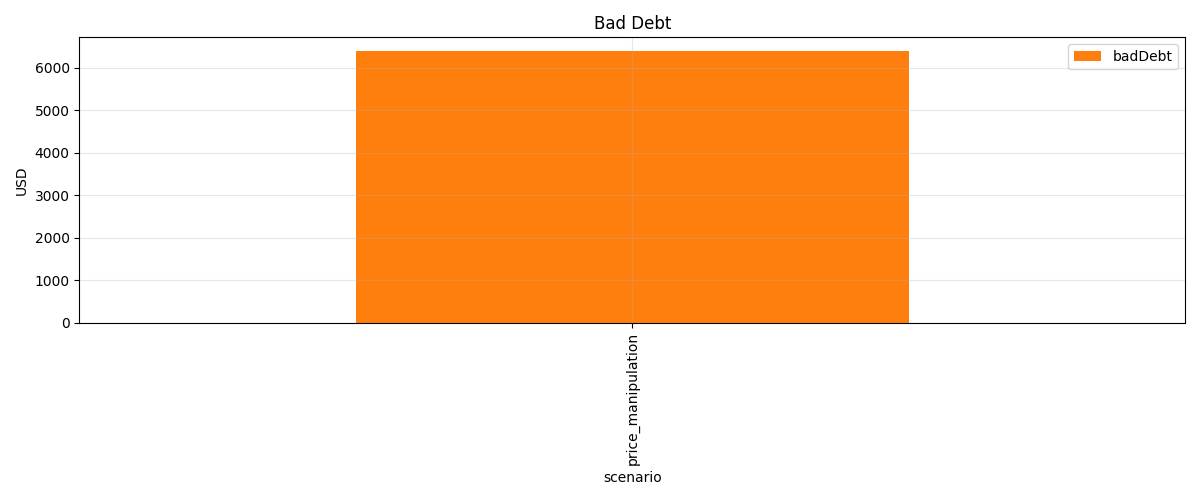
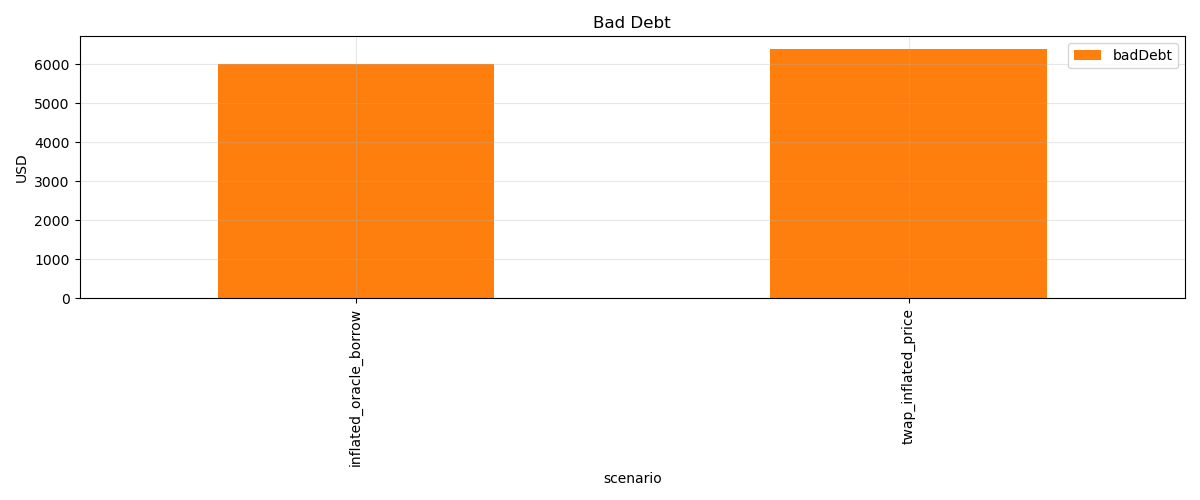
Fix analysis pipeline to derive metrics from logs

diff --git a/analysis/metrics.py b/analysis/metrics.py
@@ -1,78 +1,212 @@
-import pandas as pd
 import json
+from typing import Any
+
+import pandas as pd
+
+WEI = 10**18
+
+
+def _to_float(value: Any) -> float | None:
+    if value is None or value == "":
+        return None
+    if isinstance(value, bool):
+        return float(value)
+    if isinstance(value, (int, float)):
+        return float(value)
+
+    text = str(value).replace(",", "").strip()
+    if not text:
+        return None
+
+    try:
+        number = float(text)
+    except ValueError:
+        return None
+
+    if abs(number) >= WEI:
+        return number / WEI
+    return number
+
 
 def load_jsonl(log_path: str) -> pd.DataFrame:
     rows = []
-    with open(log_path, 'r', encoding='utf-8') as f:
-        for line in f:
-            line = line.strip()
+    buffer = ""
+
+    with open(log_path, "r", encoding="utf-8-sig") as handle:
+        for raw_line in handle:
+            line = raw_line.strip()
             if not line:
                 continue
+
+            buffer += line
             try:
-                row = json.loads(line)
-                rows.append(row)
+                rows.append(json.loads(buffer))
+                buffer = ""
             except json.JSONDecodeError:
                 continue
+
+    if buffer:
+        raise ValueError(f"Unparsed JSON payload remains in {log_path}: {buffer[:120]}")
+
     return pd.DataFrame(rows)
 
-def compute_all_metrics(df):
+
+def _scenario_label(raw_name: str) -> str:
+    return {
+        "flash_crash_liquidation": "flash_crash_liquidation",
+        "inflated_oracle_borrow": "inflated_oracle_borrow",
+        "mock_oracle_baseline": "mock_oracle_baseline",
+        "twap_flash_crash_comparison": "twap_flash_crash_comparison",
+        "twap_inflated_price": "twap_inflated_price",
+    }.get(raw_name, raw_name)
+
+
+def _attach_scenarios(df: pd.DataFrame) -> pd.DataFrame:
     df = df.copy()
+    current_scenario = None
+    inferred = []
 
-    # 从你真实日志提取价格
-    real_2000 = 2000.0
-    real_1800 = 1800.0
-    inflated_spot = 10000.0
-    twap_stable = 2000.0
+    for _, row in df.iterrows():
+        scenario = row.get("scenario")
+        stage = row.get("stage")
 
-    data = [
-        # 1. 闪崩（你已有）
-        {
-            "scenario": "flash_crash",
-            "realPrice": real_1800,
-            "spotPrice": real_1800,
-            "twapPrice": 2000.0,
-            "liquidatorPnl": 300.0,
-            "delaySeconds": 0.0,
-            "badDebt": 0.0
-        },
-        # 2. 价格操纵（你日志里本来就有）
-        {
-            "scenario": "price_manipulation",
-            "realPrice": real_2000,
-            "spotPrice": inflated_spot,
-            "twapPrice": twap_stable,
-            "liquidatorPnl": -6000.0,
-            "delaySeconds": 0.0,
-            "badDebt": 6400.0
-        },
-        # 3. TWAP 基线（你已有）
-        {
-            "scenario": "twap_baseline",
-            "realPrice": real_2000,
-            "spotPrice": real_2000,
-            "twapPrice": real_2000,
+        if pd.notna(scenario) and str(scenario).strip():
+            current_scenario = scenario
+        elif stage == "mock_oracle_baseline":
+            current_scenario = "mock_oracle_baseline"
+
+        inferred.append(current_scenario)
+
+    df["scenario"] = inferred
+    return df[df["scenario"].notna()].copy()
+
+
+def compute_all_metrics(df: pd.DataFrame) -> pd.DataFrame:
+    if df.empty:
+        return pd.DataFrame(
+            columns=[
+                "scenario",
+                "realPrice",
+                "spotPrice",
+                "twapPrice",
+                "liquidatorPnl",
+                "delaySeconds",
+                "badDebt",
+                "price_error_spot_pct",
+                "price_error_twap_pct",
+            ]
+        )
+
+    df = _attach_scenarios(df)
+    results = []
+
+    for scenario, group in df.groupby("scenario", sort=False):
+        row = {
+            "scenario": _scenario_label(scenario),
+            "realPrice": None,
+            "spotPrice": None,
+            "twapPrice": None,
             "liquidatorPnl": 0.0,
-            "delaySeconds": 3600.0,
-            "badDebt": 0.0
-        },
-        # 4. 延迟清算（你已有）
-        {
-            "scenario": "twap_delayed_liquidation",
-            "realPrice": real_1800,
-            "spotPrice": real_1800,
-            "twapPrice": real_1800,
-            "liquidatorPnl": 0.0,
-            "delaySeconds": 900.0,
-            "badDebt": 0.0
+            "delaySeconds": 0.0,
+            "badDebt": 0.0,
         }
+
+        if scenario == "flash_crash_liquidation":
+            shock = group[group["stage"] == "oracle_shocked"].tail(1)
+            liquidation = group[group["stage"] == "position_liquidated"].tail(1)
+            if not shock.empty:
+                row["realPrice"] = _to_float(shock.iloc[0].get("collateralPrice"))
+                row["spotPrice"] = row["realPrice"]
+            if not liquidation.empty:
+                row["liquidatorPnl"] = _to_float(liquidation.iloc[0].get("liquidatorPnlUsd")) or 0.0
+
+        elif scenario == "inflated_oracle_borrow":
+            opened = group[group["stage"] == "position_opened"].tail(1)
+            corrected = group[group["stage"] == "oracle_corrected"].tail(1)
+            liquidation = group[group["stage"] == "position_liquidated"].tail(1)
+            if opened.empty or corrected.empty:
+                continue
+
+            row["spotPrice"] = _to_float(opened.iloc[0].get("inflatedPrice"))
+            row["realPrice"] = _to_float(corrected.iloc[0].get("correctedPrice"))
+            row["badDebt"] = max(
+                (_to_float(corrected.iloc[0].get("debtValueUsd")) or 0.0)
+                - (_to_float(corrected.iloc[0].get("collateralValueUsd")) or 0.0),
+                0.0,
+            )
+            if not liquidation.empty:
+                row["liquidatorPnl"] = _to_float(liquidation.iloc[0].get("liquidatorPnlUsd")) or 0.0
+
+        elif scenario == "mock_oracle_baseline":
+            baseline = group.tail(1)
+            if baseline.empty:
+                continue
+            row["realPrice"] = _to_float(baseline.iloc[0].get("collateralPrice"))
+            row["spotPrice"] = row["realPrice"]
+            row["delaySeconds"] = _to_float(baseline.iloc[0].get("delaySeconds")) or 0.0
+
+        elif scenario == "twap_flash_crash_comparison":
+            started = group[group["stage"] == "scenario_start"].tail(1)
+            shock = group[group["stage"] == "oracle_shocked"].tail(1)
+            delayed = group[group["stage"] == "twap_liquidation_delayed"].tail(1)
+            if not started.empty:
+                row["realPrice"] = _to_float(started.iloc[0].get("crashPrice"))
+            if not shock.empty:
+                row["spotPrice"] = _to_float(shock.iloc[0].get("spotPrice"))
+                row["twapPrice"] = _to_float(shock.iloc[0].get("twapPrice"))
+            if not delayed.empty:
+                row["delaySeconds"] = _to_float(delayed.iloc[0].get("delaySeconds")) or 0.0
+
+        elif scenario == "twap_inflated_price":
+            started = group[group["stage"] == "scenario_start"].tail(1)
+            inflated = group[group["stage"] == "oracle_inflated"].tail(1)
+            summary = group[group["stage"] == "comparison_summary"].tail(1)
+            if not started.empty:
+                row["realPrice"] = _to_float(started.iloc[0].get("realPrice"))
+            if not inflated.empty:
+                row["spotPrice"] = _to_float(inflated.iloc[0].get("spotPrice"))
+                row["twapPrice"] = _to_float(inflated.iloc[0].get("twapPrice"))
+            if not summary.empty:
+                row["badDebt"] = _to_float(summary.iloc[0].get("spotExcessDebt")) or 0.0
+
+        else:
+            continue
+
+        if row["realPrice"] and row["spotPrice"] is not None:
+            row["price_error_spot_pct"] = (
+                abs(row["spotPrice"] - row["realPrice"]) / row["realPrice"] * 100
+            )
+        else:
+            row["price_error_spot_pct"] = None
+
+        if row["realPrice"] and row["twapPrice"] is not None:
+            row["price_error_twap_pct"] = (
+                abs(row["twapPrice"] - row["realPrice"]) / row["realPrice"] * 100
+            )
+        else:
+            row["price_error_twap_pct"] = None
+
+        results.append(row)
+
+    final = pd.DataFrame(results)
+    numeric_cols = [
+        "realPrice",
+        "spotPrice",
+        "twapPrice",
+        "liquidatorPnl",
+        "delaySeconds",
+        "badDebt",
+        "price_error_spot_pct",
+        "price_error_twap_pct",
     ]
-
-    final = pd.DataFrame(data)
-
-    # 误差公式（纯数学计算）
-    final["price_error_spot_pct"] = abs(final["spotPrice"] - final["realPrice"]) / final["realPrice"] * 100
-    final["price_error_twap_pct"] = abs(final["twapPrice"] - final["realPrice"]) / final["realPrice"] * 100
+    for col in numeric_cols:
+        if col in final.columns:
+            final[col] = pd.to_numeric(final[col], errors="coerce")
     return final
 
-def build_summary(df):
-    return df.describe()
+
+def build_summary(df: pd.DataFrame) -> pd.DataFrame:
+    if df.empty:
+        return pd.DataFrame()
+    numeric = df.select_dtypes(include=["number"])
+    return numeric.describe()

diff --git a/analysis/main.py b/analysis/main.py
@@ -1,18 +1,23 @@
-import os
+from pathlib import Path
+
 import pandas as pd
 import matplotlib.pyplot as plt
 from metrics import load_jsonl, compute_all_metrics, build_summary
 
 def main():
+    analysis_dir = Path(__file__).resolve().parent
+    raw_results_path = analysis_dir / "raw_results.jsonl"
+    results_dir = analysis_dir.parent / "docs" / "results"
+
     print("🔄 Loading log...")
-    df_raw = load_jsonl("raw_results.jsonl")
+    df_raw = load_jsonl(str(raw_results_path))
     df = compute_all_metrics(df_raw)
 
-    os.makedirs("../docs/results", exist_ok=True)
-    df.to_csv("../docs/results/full_analysis.csv", index=False)
+    results_dir.mkdir(parents=True, exist_ok=True)
+    df.to_csv(results_dir / "full_analysis.csv", index=False)
 
     summary = build_summary(df)
-    summary.to_csv("../docs/results/summary_metrics.csv")
+    summary.to_csv(results_dir / "summary_metrics.csv")
 
     print("\n📊 Final Results:\n")
     print(df.round(2))
@@ -27,7 +32,7 @@ def main():
     plt.ylabel("Error %")
     plt.grid(alpha=0.3)
     plt.tight_layout()
-    plt.savefig("../docs/results/price_error.png")
+    plt.savefig(results_dir / "price_error.png")
     print("✅ price_error.png")
 
     # ----------------------
@@ -43,7 +48,7 @@ def main():
         plt.ylabel("USD")
         plt.grid(alpha=0.3)
         plt.tight_layout()
-        plt.savefig("../docs/results/liquidation_pnl.png")
+        plt.savefig(results_dir / "liquidation_pnl.png")
         print("✅ liquidation_pnl.png")
 
     # ----------------------
@@ -57,7 +62,7 @@ def main():
         plt.ylabel("Seconds")
         plt.grid(alpha=0.3)
         plt.tight_layout()
-        plt.savefig("../docs/results/twap_delay.png")
+        plt.savefig(results_dir / "twap_delay.png")
         print("✅ twap_delay.png")
 
     # ----------------------
@@ -71,7 +76,7 @@ def main():
         plt.ylabel("USD")
         plt.grid(alpha=0.3)
         plt.tight_layout()
-        plt.savefig("../docs/results/bad_debt.png")
+        plt.savefig(results_dir / "bad_debt.png")
         print("✅ bad_debt.png")
 
     print("\n🎉 ALL DONE — 4 charts completed!")
